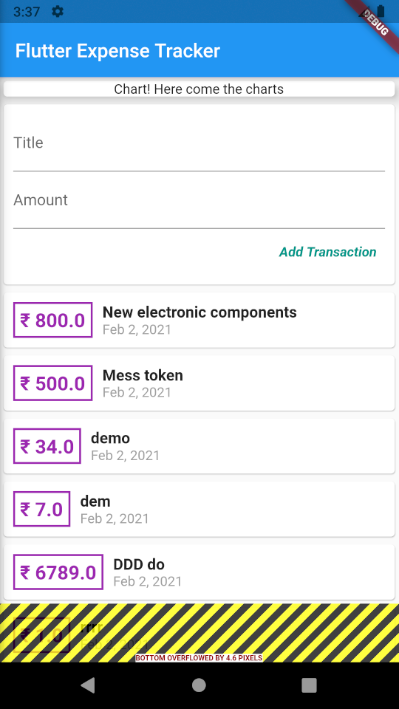
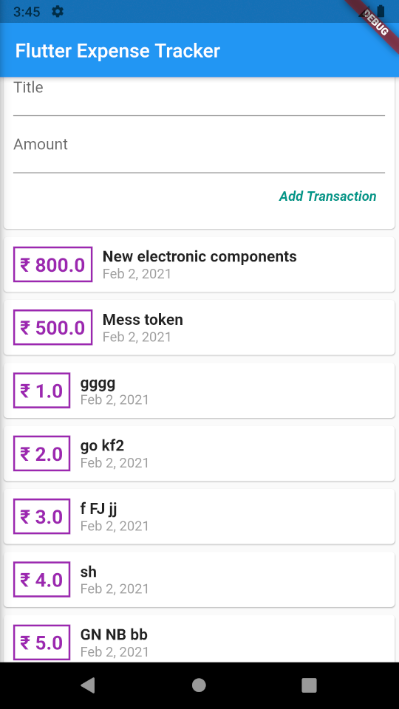
Add scrolling feature

diff --git a/lib/main.dart b/lib/main.dart
@@ -24,22 +24,24 @@ class MyHomePage extends StatelessWidget {
       appBar: AppBar(
         title: Text('Flutter Expense Tracker'),
       ),
-      body: Column(
-        children: <Widget>[
-          Container(
-            child: Card(
-              child: Text(
-                'Chart! Here come the charts',
-                textAlign: TextAlign.center,
+      body: SingleChildScrollView(
+        child: Column(
+          children: <Widget>[
+            Container(
+              child: Card(
+                child: Text(
+                  'Chart! Here come the charts',
+                  textAlign: TextAlign.center,
+                ),
+                // color: Colors.blue,
+                elevation: 10.0,
               ),
-              // color: Colors.blue,
-              elevation: 10.0,
+              width: double.infinity,
             ),
-            width: double.infinity,
-          ),
-          UserTransaction(),
-        ],
-        mainAxisAlignment: MainAxisAlignment.start,
+            UserTransaction(),
+          ],
+          mainAxisAlignment: MainAxisAlignment.start,
+        ),
       ),
     );
   }

diff --git a/README.md b/README.md
@@ -18,5 +18,8 @@ A new Flutter project.
 ### TextEditingController
 - `Controller` can be used to get input from user without changing the widget to stateful widget.
 
+### SingleChildScrollView
+- Used to make our view scrollable.
+
 ### Output
 ![Output image](output.png)
